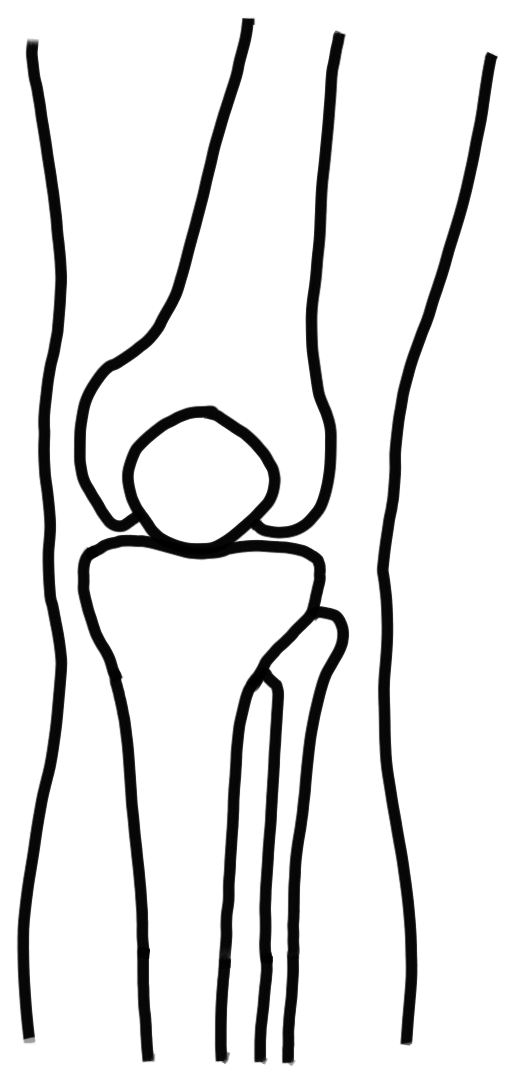
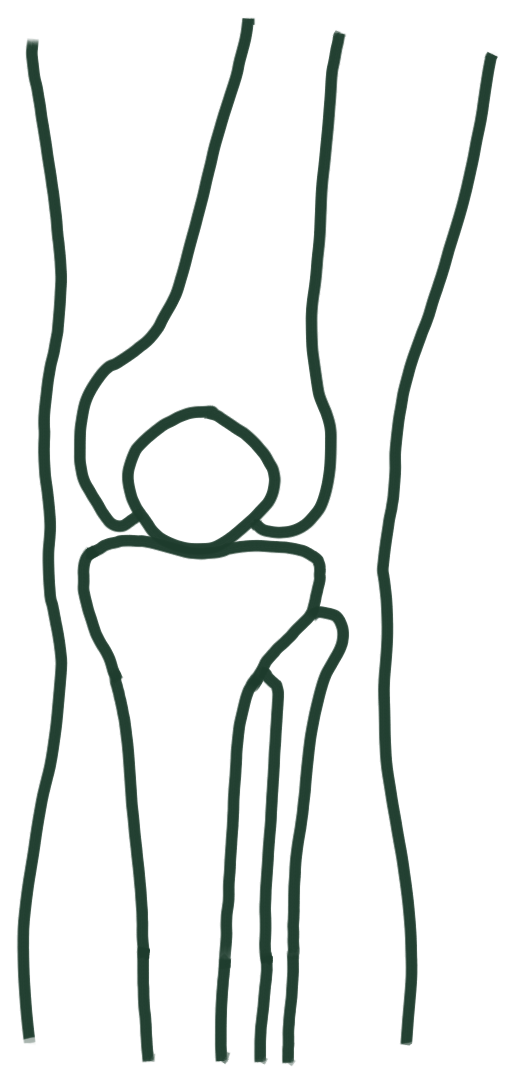
Every drawing in deep forest green; elbow view on the clinician's drawing; hover preview waits for a resting pointer and ignores scrolling; TTS_DISABLED rehearsal switch (cache still serves, browser voice otherwise)

Changed region(s): [[0.0311, 0.0, 0.6835, 1.0], [0.7146, 0.0305, 0.9631, 0.9751]]

diff --git a/app/page.tsx b/app/page.tsx
@@ -64,6 +64,27 @@ export default function Home() {
   const [query, setQuery] = useState("");
   /** A condition the pointer is resting on: the preview shows it before it is chosen. */
   const [hoverId, setHoverId] = useState<string | null>(null);
+  // The preview follows a resting pointer, not a passing one: a short dwell
+  // before it swaps, and nothing while the page is scrolling under the mouse.
+  const hoverTimer = useRef<number | null>(null);
+  const scrollingUntil = useRef(0);
+  useEffect(() => {
+    const onScroll = () => { scrollingUntil.current = Date.now() + 250; };
+    window.addEventListener("scroll", onScroll, { passive: true });
+    return () => window.removeEventListener("scroll", onScroll);
+  }, []);
+  const hoverStart = (id: string) => {
+    if (hoverTimer.current) window.clearTimeout(hoverTimer.current);
+    hoverTimer.current = window.setTimeout(() => {
+      if (Date.now() < scrollingUntil.current) return;
+      setHoverId(id);
+    }, 280);
+  };
+  const hoverEnd = () => {
+    if (hoverTimer.current) window.clearTimeout(hoverTimer.current);
+    hoverTimer.current = null;
+    setHoverId(null);
+  };
   const [conditionId, setConditionId] = useState<string | null>(null);
   const [choosing, setChoosing] = useState(false);
   const [customHeadline, setCustomHeadline] = useState("");
@@ -432,10 +453,10 @@ export default function Home() {
                         <button
                           key={c.id}
                           onClick={() => { setConditionId(c.id); setRegion(c.region); setCustomHeadline(c.plain); setChoosing(false); setQuery(""); setHoverId(null); }}
-                          onMouseEnter={() => setHoverId(c.id)}
-                          onMouseLeave={() => setHoverId(null)}
+                          onMouseEnter={() => hoverStart(c.id)}
+                          onMouseLeave={hoverEnd}
                           onFocus={() => setHoverId(c.id)}
-                          onBlur={() => setHoverId(null)}
+                          onBlur={hoverEnd}
                           className="row w-full text-left py-3 hover:opacity-75"
                         >
                           <span
@@ -565,7 +586,7 @@ export default function Home() {
               </div>
 
               {(hovered ?? selected) ? (
-                <div key={(hovered ?? selected)!.id} className="mx-auto max-w-[220px] mb-5 rise"><Diagram id={(hovered ?? selected)!.diagram} marks={(hovered ?? selected)!.marks} /></div>
+                <div key={(hovered ?? selected)!.id} className="mx-auto max-w-[220px] mb-5 fade"><Diagram id={(hovered ?? selected)!.diagram} marks={(hovered ?? selected)!.marks} /></div>
               ) : (
                 <div className="mx-auto h-44 mb-5 flex items-end justify-center gap-6 transition-opacity duration-500" aria-hidden style={{ opacity: noteBusy ? 1 : 0.3 }}>
                   <div className="h-full"><Figure region="body" body="female" spot={false} searching={noteBusy} /></div>
@@ -573,7 +594,7 @@ export default function Home() {
                 </div>
               )}
               {(hovered?.plain || customHeadline || selected?.plain) && (
-                <p key={hovered?.id ?? "chosen"} className="display-sm rise" style={{ fontSize: "1.6rem" }}>{hovered?.plain || customHeadline || selected?.plain}</p>
+                <p key={hovered?.id ?? "chosen"} className="display-sm fade" style={{ fontSize: "1.6rem" }}>{hovered?.plain || customHeadline || selected?.plain}</p>
               )}
 
               {meds.filter((m) => m.name.trim()).length > 0 && (

diff --git a/app/globals.css b/app/globals.css
@@ -30,6 +30,8 @@
   --line: #d8cfbf;
   --line-soft: #e6dfd2;
 
+  /* The ink every drawing is made of: deep forest green. */
+  --ink: #1d3b2c;
   --accent: #8fb257;
   --accent-hover: #7fa348;
   --accent-ink: #1c2612;
@@ -404,6 +406,10 @@ input.field {
   to { transform: perspective(1800px) rotateY(0); opacity: 1; }
 }
 
+/* A quiet swap: opacity only, no movement. */
+.fade { animation: fade 220ms ease-out both; }
+@keyframes fade { from { opacity: 0; } to { opacity: 1; } }
+
 /* Each screen's words rise into place. */
 .rise { animation: rise 360ms cubic-bezier(0, 0, 0.2, 1) both; }
 @keyframes rise {
@@ -413,7 +419,7 @@ input.field {
 
 /* Motion is a courtesy, never a requirement. */
 @media (prefers-reduced-motion: reduce) {
-  .turn.out, .turn.in, .rise { animation: none; }
+  .turn.out, .turn.in, .rise, .fade { animation: none; }
   * { transition-duration: 0.01ms !important; }
 }
 
@@ -424,8 +430,8 @@ input.field {
   gap: 40px;
   height: 104px;
   overflow: hidden;
-  color: var(--foreground);
-  opacity: 0.85;
+  color: var(--ink);
+  opacity: 0.9;
   mask-image: linear-gradient(to right, black 82%, transparent);
   -webkit-mask-image: linear-gradient(to right, black 82%, transparent);
 }

diff --git a/lib/anatomy/art.ts b/lib/anatomy/art.ts
@@ -219,6 +219,20 @@ export const ART: Partial<Record<DiagramId, ArtDiagram>> = {
       disc: { x: 0.5, y: 0.6, s: 0.8 },                                      // a disc, behind the larynx
     },
   },
+  // The arm bent at the elbow, hand to the left: the joint sits at the right.
+  elbow: {
+    src: asset("/anatomy/elbow.png"),
+    w: 1041,
+    h: 903,
+    label: "The elbow",
+    spots: {
+      olecranon: { x: 0.89, y: 0.56, s: 0.7 },                               // the point of the elbow
+      "lateral-epicondyle": { x: 0.83, y: 0.49, s: 0.6 },                    // the outer knob
+      "medial-epicondyle": { x: 0.78, y: 0.61, s: 0.6 },                     // the inner knob
+      "radial-head": { x: 0.74, y: 0.63, s: 0.6 },                           // just below the joint
+      nerve: { x: 0.69, y: 0.7, s: 0.7 },                                    // the nerve running down the forearm
+    },
+  },
 };
 
 /** Every spot for a mark, whether the drawing has one view or two. */

diff --git a/components/PatientStory.tsx b/components/PatientStory.tsx
@@ -60,13 +60,15 @@ export function PatientStory({ slides, diagram, marks, langTag, rtl, body: initi
               headers: { "content-type": "application/json" },
               body: JSON.stringify({ text: slides[n].spoken }),
             })
-        ).then(async (r) => (r.ok ? URL.createObjectURL(await r.blob()) : null));
+        ).then(async (r) => (r.ok ? URL.createObjectURL(await r.blob()) : r.status === 503 ? "off" : null));
       const p: Promise<string | null> = lane.current
         .then(once)
         .then(async (url) => {
+          if (url === "off") return null; // no voice service: straight to the browser voice
           if (url) return url;
           await new Promise((res) => setTimeout(res, 900));
-          return once();
+          const again = await once();
+          return again === "off" ? null : again;
         })
         .catch(() => null);
       lane.current = p.catch(() => null);

diff --git a/app/api/tts/route.ts b/app/api/tts/route.ts
@@ -63,6 +63,13 @@ export async function POST(req: NextRequest) {
     // Miss - fall through to the API.
   }
 
+  // Rehearsal switch: TTS_DISABLED=1 in .env.local keeps the cache serving
+  // (free) and sends everything else to the browser voice, so a day of
+  // testing costs no characters. Remove the line to wire ElevenLabs back in.
+  if (process.env.TTS_DISABLED === "1") {
+    return NextResponse.json({ error: "TTS disabled for testing", fallback: "browser" }, { status: 503 });
+  }
+
   const call = () =>
     fetch(`https://api.elevenlabs.io/v1/text-to-speech/${DEFAULT_VOICE}`, {
       method: "POST",

diff --git a/components/Diagram.tsx b/components/Diagram.tsx
@@ -93,7 +93,7 @@ export function Diagram({
     viewBox: "0 0 300 360",
     className,
     role: "img" as const,
-    style: { color: "var(--foreground)", ...sizing },
+    style: { color: "var(--ink)", ...sizing },
   };
 
   // ---- Forearm, wrist and hand - anterior (palm-up) view -------------------
